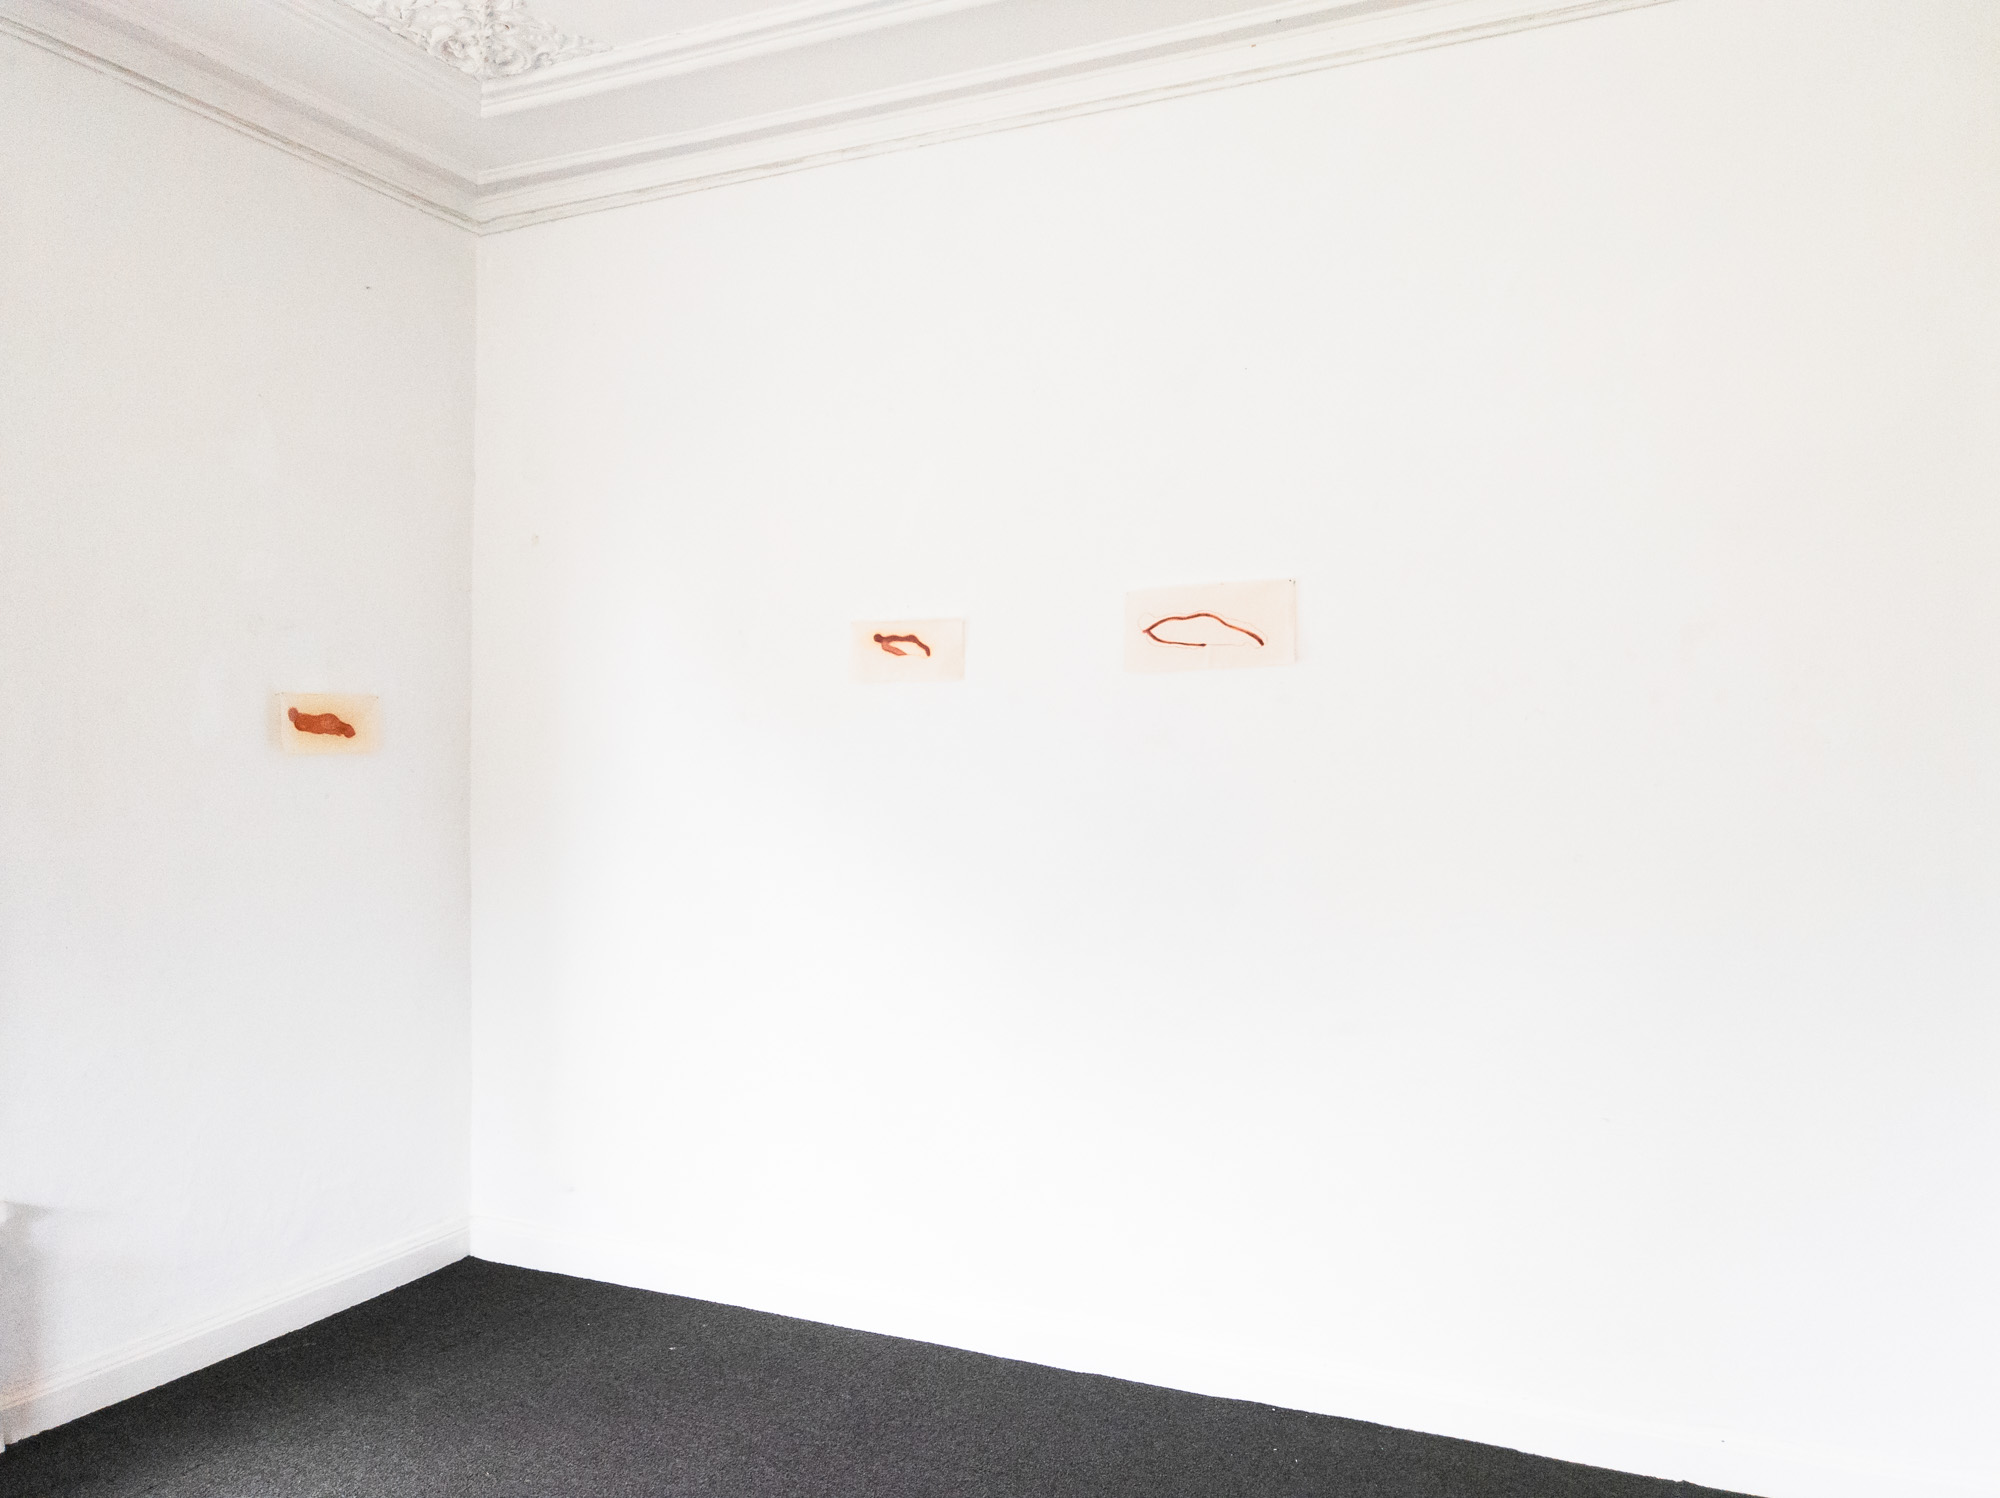
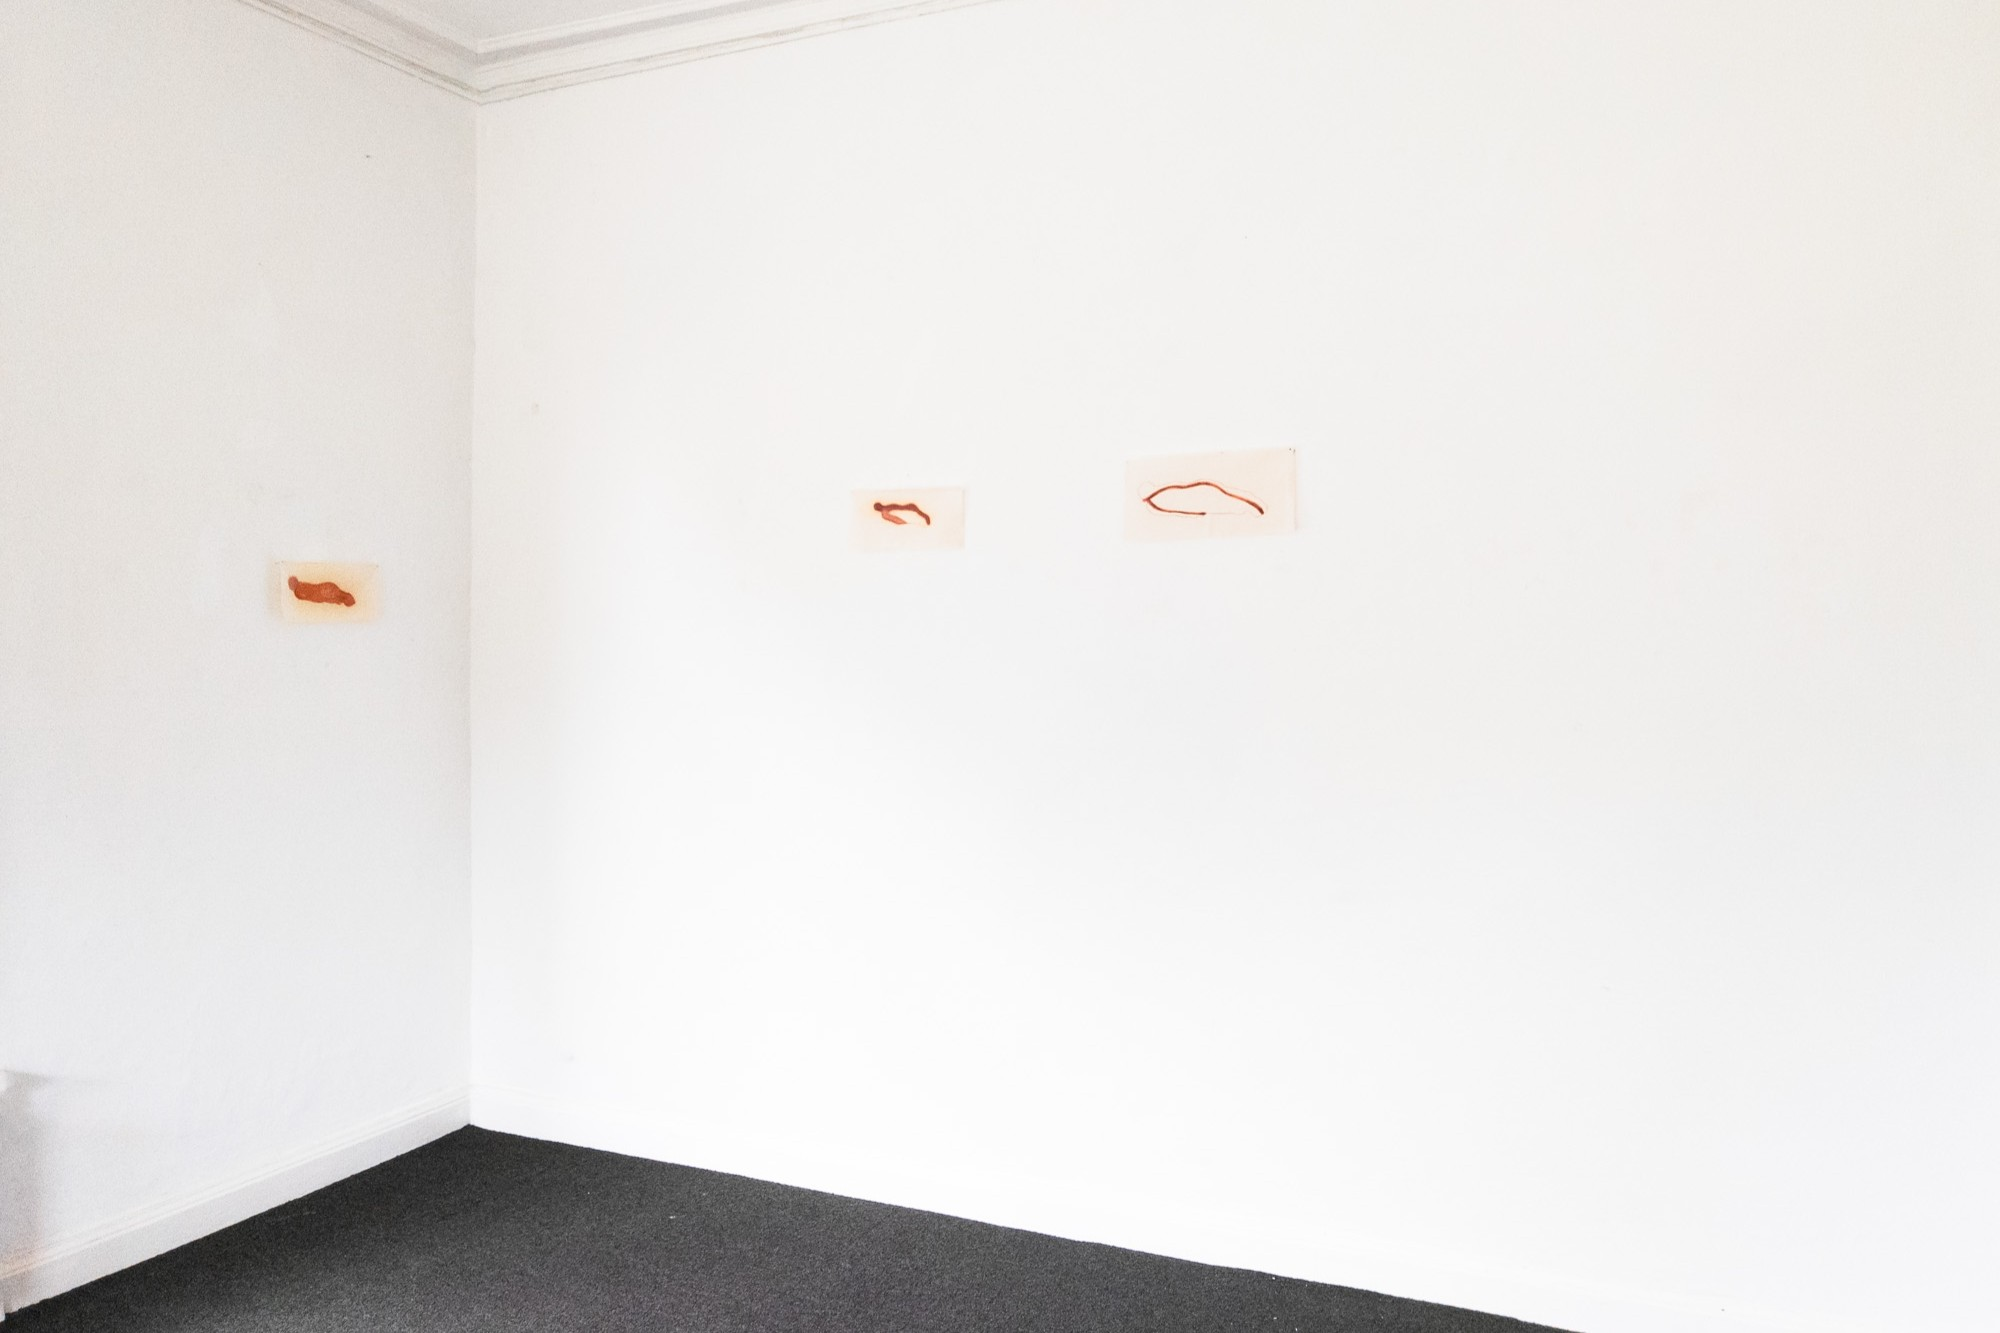
c

diff --git a/projects/project-config.js b/projects/project-config.js
@@ -634,7 +634,11 @@ window.projectConfig = {
             { "src": "projects/15/geral -05.jpg", "caption": ""},
             { "src": "projects/15/geral -06.jpg", "caption": ""},
             { "src": "projects/15/geral -07.jpg", "caption": ""},
-            { "src": "projects/15/geral -08.jpg", "caption": ""}
+            { "src": "projects/15/geral -08.jpg", "caption": ""},
+            { "src": "projects/15/geral -13.jpg", "caption": ""},
+            { "src": "projects/15/geral -10.jpg", "caption": ""},
+            { "src": "projects/15/geral -11.jpg", "caption": ""},
+            { "src": "projects/15/geral -12.jpg", "caption": ""},
           ]
         },
         
